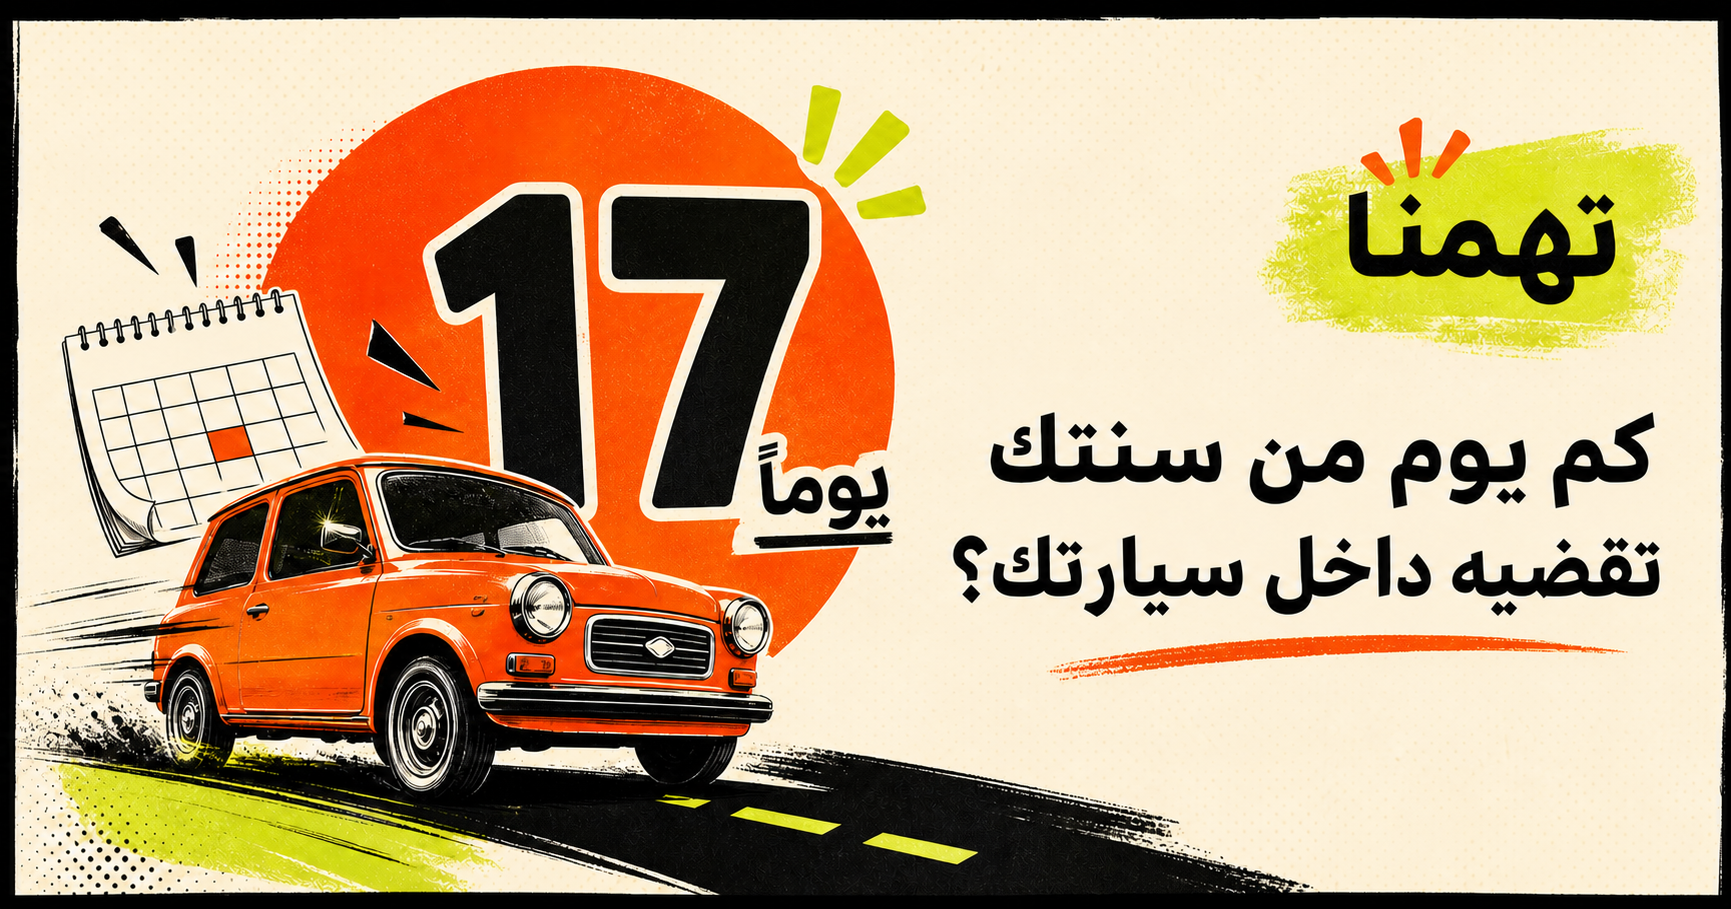
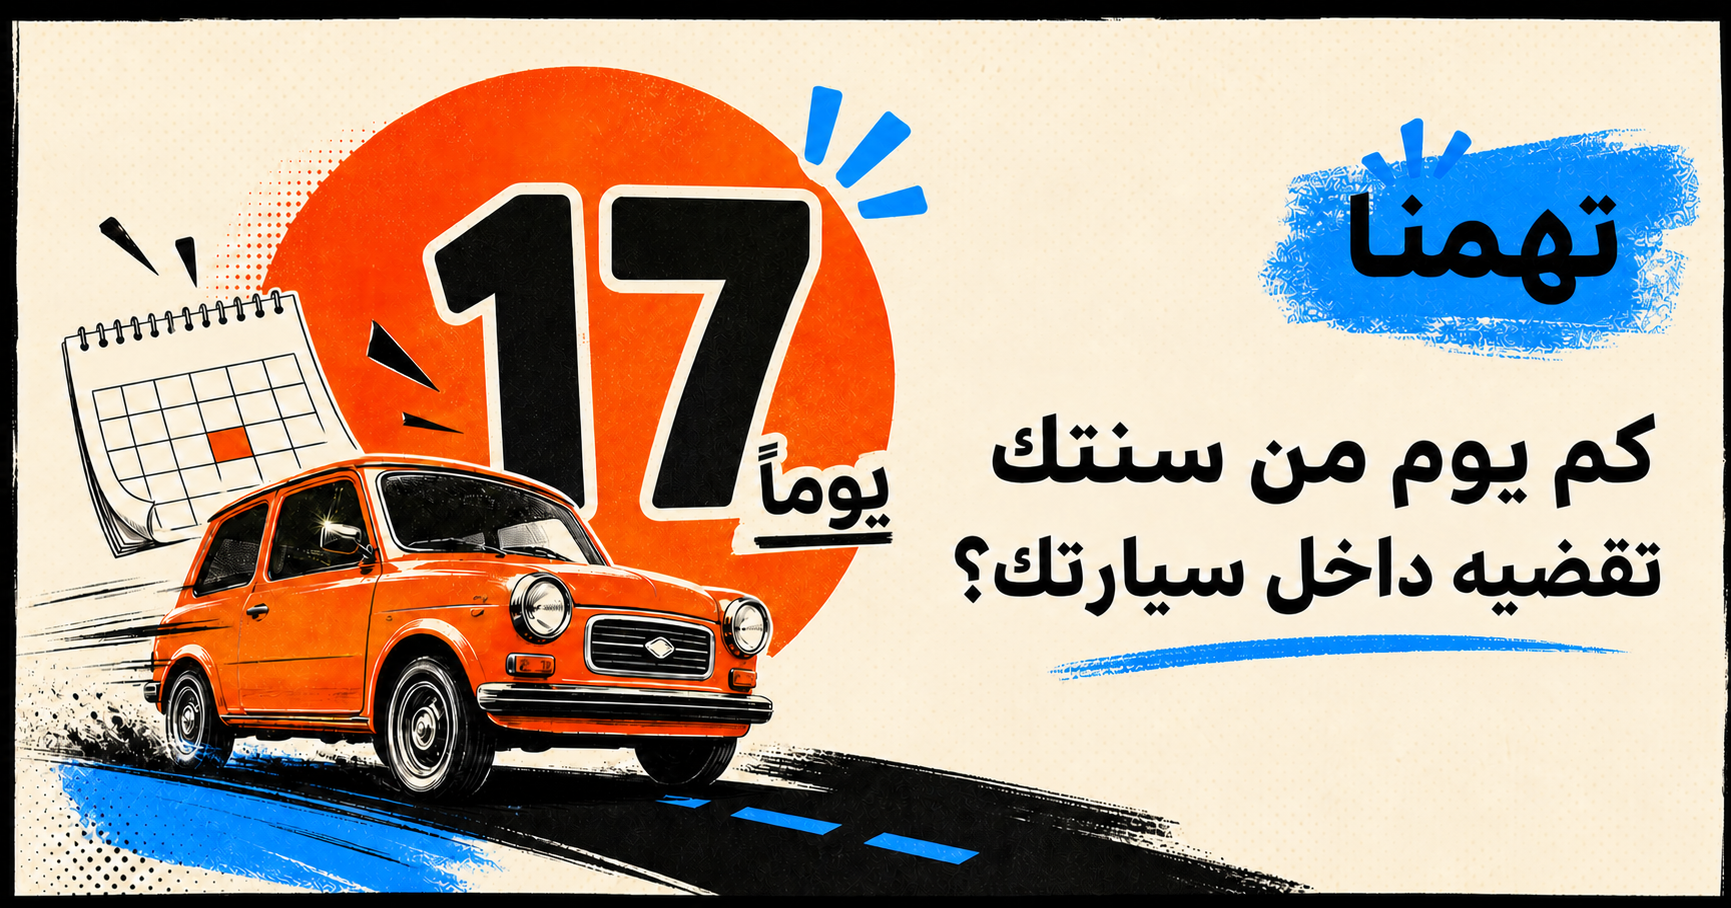
Replace neon accent with blue

diff --git a/app/globals.css b/app/globals.css
@@ -10,7 +10,7 @@
 :root {
   --orange: #ff5a1f;
   --orange-dark: #d63b08;
-  --lime: #d9ff45;
+  --accent: #1389ff;
   --ink: #171512;
   --cream: #fff8ea;
   --paper: #f3ead7;
@@ -57,8 +57,8 @@ h1, h2, p { margin-top: 0; }
 .number-field input { width: 100%; height: 86px; padding: 0 22px 0 90px; color: var(--ink); background: var(--cream); border: 2px solid var(--ink); border-radius: 20px; direction: ltr; text-align: right; font-size: 46px; font-weight: 900; }
 .number-field input::-webkit-inner-spin-button { display: none; }
 .slider { --range-progress: 18.6%; appearance: none; display: block; width: 100%; height: 12px; background: linear-gradient(to left, var(--orange) var(--range-progress), #ded5c5 var(--range-progress)); border: 2px solid var(--ink); border-radius: 99px; direction: rtl; }
-.slider::-webkit-slider-thumb { appearance: none; width: 30px; height: 30px; background: var(--lime); border: 3px solid var(--ink); border-radius: 50%; box-shadow: 0 3px 0 var(--ink); cursor: grab; }
-.slider::-moz-range-thumb { width: 26px; height: 26px; background: var(--lime); border: 3px solid var(--ink); border-radius: 50%; box-shadow: 0 3px 0 var(--ink); cursor: grab; }
+.slider::-webkit-slider-thumb { appearance: none; width: 30px; height: 30px; background: var(--accent); border: 3px solid var(--ink); border-radius: 50%; box-shadow: 0 3px 0 var(--ink); cursor: grab; }
+.slider::-moz-range-thumb { width: 26px; height: 26px; background: var(--accent); border: 3px solid var(--ink); border-radius: 50%; box-shadow: 0 3px 0 var(--ink); cursor: grab; }
 .range-labels { display: flex; justify-content: space-between; margin: 12px 2px 24px; color: var(--muted); font-size: 11px; font-weight: 700; }
 .field-error { margin: -8px 0 16px; padding: 10px; color: #9c2315; background: #ffe0d7; border-radius: 10px; font-size: 13px; font-weight: 700; }
 .primary-button { min-height: 62px; width: 100%; padding: 14px 22px; display: flex; align-items: center; justify-content: space-between; color: white; background: var(--orange); border: 2px solid var(--ink); border-radius: 18px; box-shadow: 0 5px 0 var(--ink); text-decoration: none; font-weight: 900; font-size: 18px; cursor: pointer; transition: transform .16s, box-shadow .16s, background .16s; }
@@ -99,11 +99,11 @@ h1, h2, p { margin-top: 0; }
 .meme-emoji { font-size: 122px; filter: drop-shadow(8px 10px 0 rgba(23,21,18,.25)); animation: float 2.8s ease-in-out infinite; }
 .meme-caption { font-weight: 900; font-size: 22px; }
 .tier-card blockquote { margin: 20px 4px 8px; font-size: 20px; line-height: 1.6; font-weight: 900; }
-.stat-strip { margin: 24px 0; padding: 18px; display: flex; align-items: baseline; justify-content: center; gap: 7px; background: var(--lime); border: 2px solid var(--ink); border-radius: 18px; transform: rotate(.7deg); }
+.stat-strip { margin: 24px 0; padding: 18px; display: flex; align-items: baseline; justify-content: center; gap: 7px; background: var(--accent); border: 2px solid var(--ink); border-radius: 18px; transform: rotate(.7deg); }
 .stat-strip span { font-size: 12px; font-weight: 700; }
 .stat-strip strong { font-size: 23px; }
 .share-card { position: relative; padding: 32px 20px 22px; background: var(--orange); border: 2px solid var(--ink); border-radius: var(--radius-lg); box-shadow: var(--shadow); color: white; }
-.share-sticker { position: absolute; top: -15px; left: 18px; padding: 8px 12px; color: var(--ink); background: var(--lime); border: 2px solid var(--ink); border-radius: 10px; font-size: 11px; font-weight: 900; transform: rotate(-4deg); }
+.share-sticker { position: absolute; top: -15px; left: 18px; padding: 8px 12px; color: white; background: var(--accent); border: 2px solid var(--ink); border-radius: 10px; font-size: 11px; font-weight: 900; transform: rotate(-4deg); }
 .share-card h2 { margin-bottom: 10px; font-size: 31px; line-height: 1.25; }
 .share-card p { margin-bottom: 20px; font-size: 13px; }
 .share-card .primary-button { color: var(--ink); background: var(--cream); }
@@ -114,17 +114,17 @@ h1, h2, p { margin-top: 0; }
 .fallback-box p { color: var(--muted); font-size: 13px; }
 .fallback-box div { display: grid; grid-template-columns: 1fr 1fr; gap: 8px; }
 .fallback-box button { min-height: 46px; background: var(--cream); border: 2px solid var(--ink); border-radius: 12px; font-weight: 900; cursor: pointer; }
-.discount-card { position: relative; margin-top: 24px; padding: 28px 18px 20px; background: var(--lime); border: 2px solid var(--ink); border-radius: var(--radius-lg); box-shadow: var(--shadow); animation: reveal .5s cubic-bezier(.2,1.4,.4,1); }
+.discount-card { position: relative; margin-top: 24px; padding: 28px 18px 20px; color: white; background: var(--accent); border: 2px solid var(--ink); border-radius: var(--radius-lg); box-shadow: var(--shadow); animation: reveal .5s cubic-bezier(.2,1.4,.4,1); }
 .confetti { position: absolute; top: 8px; left: 0; right: 0; color: var(--orange); letter-spacing: 18px; animation: blink 1s steps(2) infinite; }
 .discount-card > p { margin: 12px 0 14px; font-weight: 900; }
 .code { width: 100%; margin-bottom: 14px; padding: 16px; display: flex; align-items: center; justify-content: space-between; background: var(--white); border: 2px dashed var(--ink); border-radius: 15px; direction: ltr; cursor: pointer; }
 .code span { font: 900 23px Arial; letter-spacing: 1px; }
 .code small { font-family: "Lama Sans", Tahoma, Arial, sans-serif; font-weight: 900; }
-.discount-card ul { margin: 18px 0 0; padding: 0 20px 0 0; text-align: right; color: #524f37; font-size: 11px; line-height: 1.8; }
+.discount-card ul { margin: 18px 0 0; padding: 0 20px 0 0; text-align: right; color: #eef7ff; font-size: 11px; line-height: 1.8; }
 .secondary-button { margin: 30px 0 0; padding: 14px 20px; color: var(--ink); background: transparent; border: 0; border-bottom: 2px solid var(--ink); font-weight: 900; cursor: pointer; }
 footer { min-height: 150px; padding: 36px 20px; display: flex; flex-direction: column; align-items: center; justify-content: center; color: var(--cream); background: var(--ink); }
 footer span { color: #aaa096; font-size: 13px; }
-footer strong { margin-top: 6px; color: var(--lime); font-size: 24px; }
+footer strong { margin-top: 6px; color: var(--accent); font-size: 24px; }
 
 @keyframes drive { 0% { right: -8%; } 55% { right: 46%; transform: scaleX(-1) translateY(-4px); } 100% { right: 92%; } }
 @keyframes pulse { to { transform: scale(1.06) rotate(2deg); } }

diff --git a/lib/campaign-config.ts b/lib/campaign-config.ts
@@ -18,7 +18,7 @@ export const campaignConfig = {
   },
   colors: {
     orange: "#ff5a1f",
-    lime: "#d9ff45",
+    accent: "#1389ff",
     ink: "#171512",
     cream: "#fff8ea",
   },
@@ -56,7 +56,7 @@ export const campaignConfig = {
       message: "مشوارين وترجع… وضعك للحين بالسليم.",
       image: "/memes/meme-tier-2.webp",
       emoji: "😌",
-      accent: "#d9ff45",
+      accent: "#1389ff",
       alt: "صورة تعبيرية لشخصية راعي المشاوير الخفيفة",
     },
     {
@@ -109,4 +109,3 @@ export const campaignConfig = {
 export const getTier = (minutes: number) =>
   campaignConfig.tiers.find((tier) => minutes >= tier.min && minutes <= tier.max) ??
   campaignConfig.tiers[campaignConfig.tiers.length - 1];
-

diff --git a/app/page.tsx b/app/page.tsx
@@ -119,7 +119,7 @@ export default function Home() {
     ctx.fillStyle = campaignConfig.colors.cream;
     ctx.font = '700 54px "Lama Sans", Arial';
     ctx.fillText("سويتر", 920, 170);
-    ctx.fillStyle = campaignConfig.colors.lime;
+    ctx.fillStyle = campaignConfig.colors.accent;
     ctx.font = '900 106px "Lama Sans", Arial';
     ctx.fillText("تهمنا", 920, 300);
 
